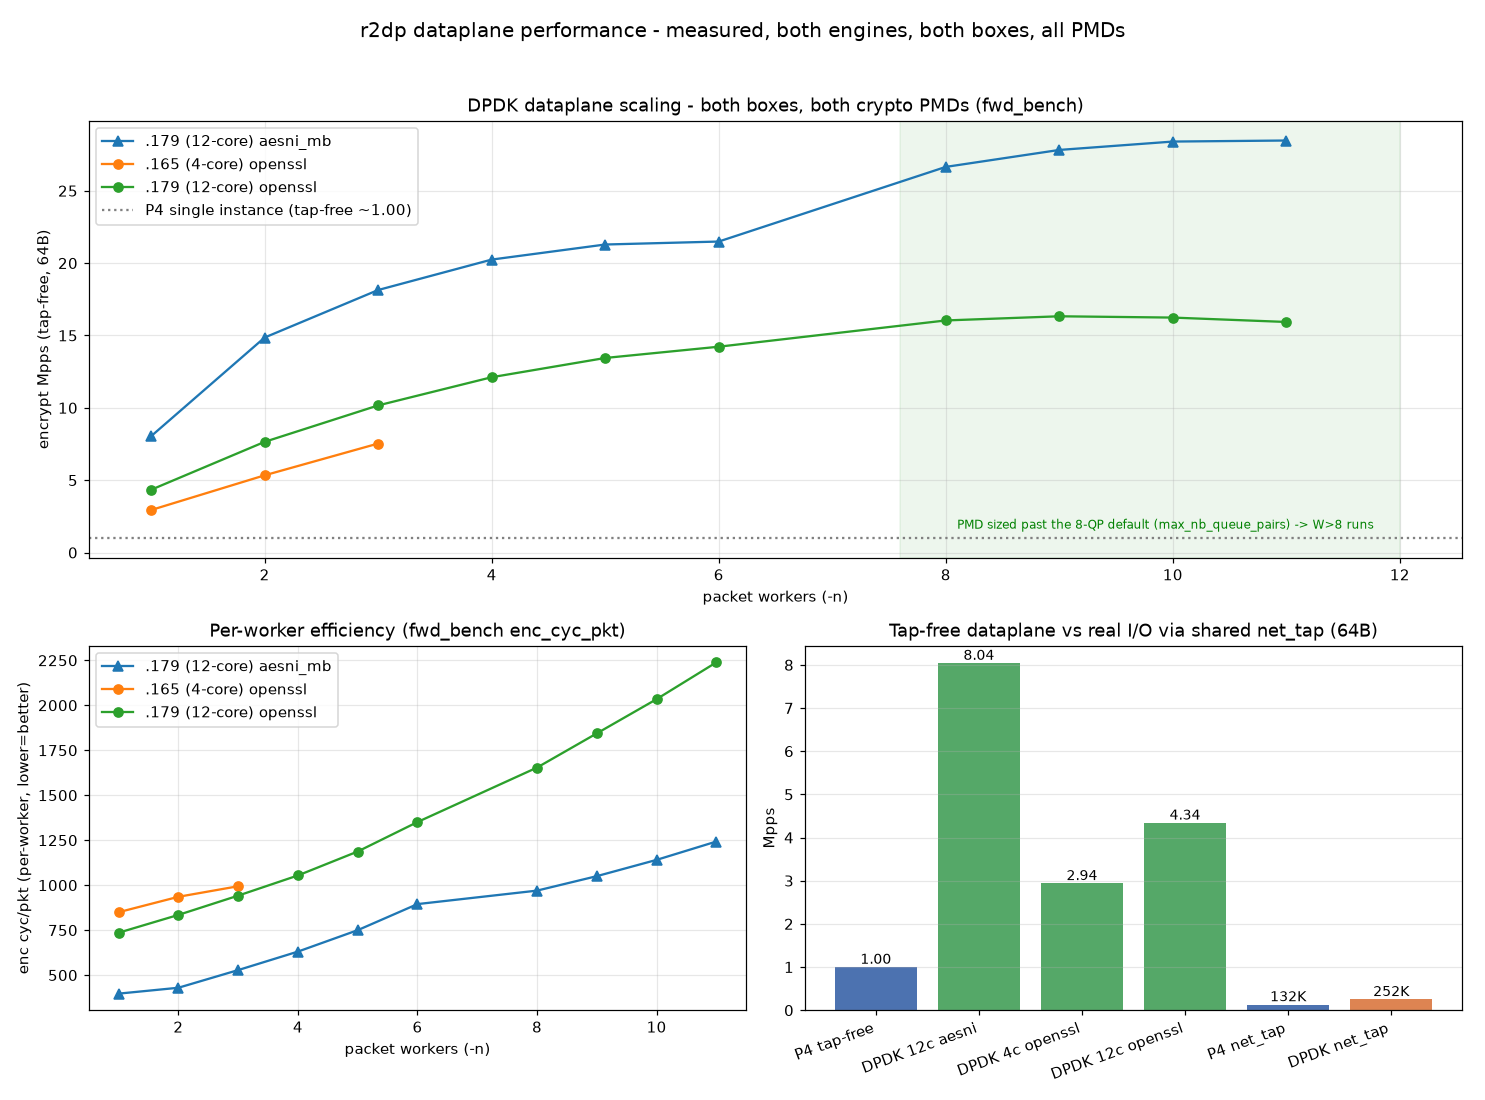
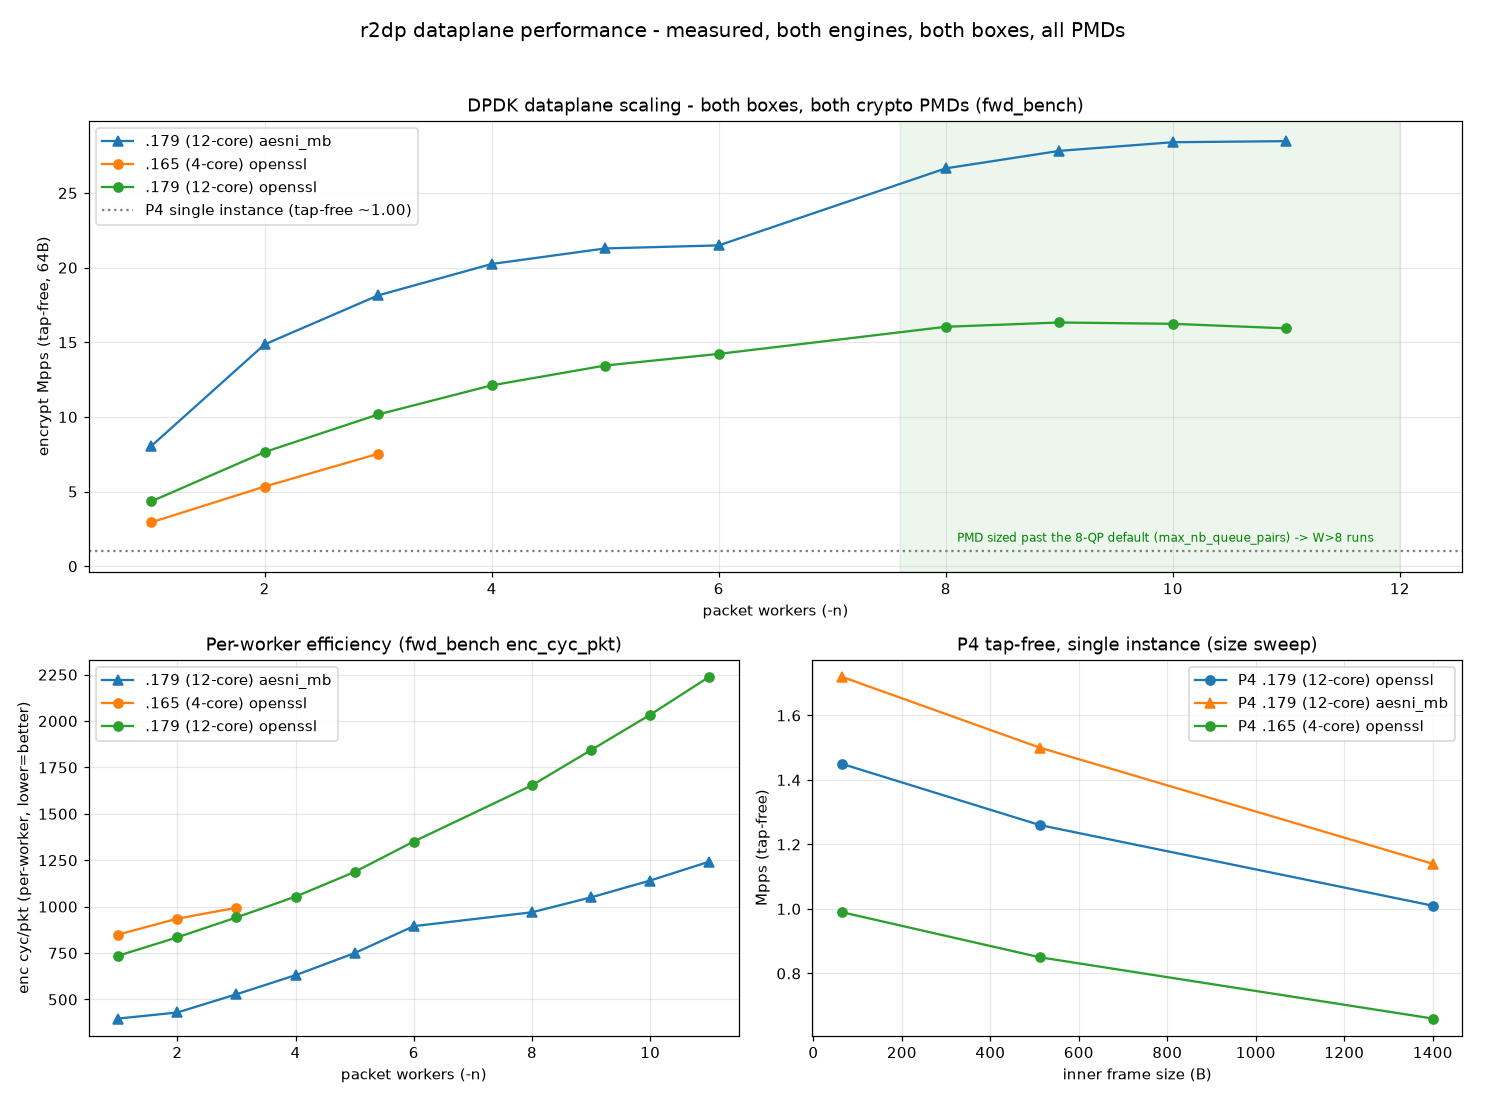
curves: add P4 tap-free size sweep to the figure
charts.py bottom-right now plots Mpps vs inner frame size for the P4
tap-free (R2DP_P4_BENCH) sweep, per box and crypto PMD, instead of the
bare tap-free/tap bars. P4 is one SWX pipeline (single instance), so the
honest P4 figure is the size sweep, not a core sweep.

committed measured points (2026-11-07, tap-free):
  .179 12-core: openssl 1.45/1.26/1.01 Mpps, aesni 1.72/1.50/1.14 Mpps
                @ 64/512/1400 B (aesni only on .179; ~1.15-1.2x)
  .165 4-core:  openssl 0.99/0.85/0.66 Mpps @ 64/512/1400 B

diff --git a/bench/curves.py b/bench/curves.py
@@ -24,7 +24,7 @@ Data schema (curves_data.json):
              "enc": {worker: mpps, ...}, "dec": {...},
              "enc_cyc": {worker: cyc/pkt}, "dec_cyc": {...}}, ... ],
   "p4":   {"tapless_mpps": 1.00, "tap_mpps": 0.132, "dpdk_tap_mpps": 0.252,
-           "note": "..."},
+           "sweep": {box: {pmd: {size: (mpps, cyc)}}}, "note": "..."},
 }
 """
 import argparse, json, os, subprocess, sys
@@ -195,27 +195,43 @@ def plot(data, out):
     ax.grid(True, alpha=0.3)
     ax.legend()
 
-    # (c) tap-free vs real-I/O: BOTH engines tap-free AND tap
+    # (c) P4 tap-free sweep: Mpps vs packet size, per box/PMD (single instance)
     ax = fig.add_subplot(gs[1, 1])
-    # representative DPDK tap-free points: W=1 openssl .165, W=1 aesni .179
-    dpdk_tapfree = {}
-    for s in dpdk:
-        if "1" in s["enc"]:
-            pm = "aesni" if s["pmd"] == "aesni_mb" else s["pmd"]
-            box = "12c" if "179" in s["box"] else "4c"
-            dpdk_tapfree[f"DPDK {box} {pm}"] = s["enc"]["1"]
-    labels = ["P4 tap-free"] + list(dpdk_tapfree) + ["P4 net_tap", "DPDK net_tap"]
-    vals = [p4_tapfree] + list(dpdk_tapfree.values()) + [p4_tap, dpdk_tap]
-    colors = (["#4C72B0"] + ["#55A868"]*len(dpdk_tapfree) + ["#4C72B0", "#DD8452"])
-    ax.bar(labels, vals, color=colors)
-    for i, v in enumerate(vals):
-        # honest label: axis is Mpps, so a 1.00 value is "1.00", NOT "1000K"
-        ax.text(i, v, f"{v:.2f}" if v >= 1 else f"{v*1e3:.0f}K",
-                ha="center", va="bottom", fontsize=9)
-    ax.set_ylabel("Mpps")
-    ax.set_title("Tap-free dataplane vs real I/O via shared net_tap (64B)")
-    ax.grid(True, axis="y", alpha=0.3)
-    plt.setp(ax.get_xticklabels(), rotation=20, ha="right")
+    p4sweep = p4.get("sweep", {})
+    if p4sweep:
+        styles4 = {"openssl": "o-", "aesni_mb": "^-"}
+        for box, pms in p4sweep.items():
+            for pmd, sizes in pms.items():
+                xs = sorted(int(k) for k in sizes)
+                ys = [sizes[str(x)][0] for x in xs]   # Mpps
+                ax.plot(xs, ys, styles4.get(pmd, "o-"), ms=6,
+                        label=f"P4 {box} {pmd}")
+        ax.set_xlabel("inner frame size (B)")
+        ax.set_ylabel("Mpps (tap-free)")
+        ax.set_title("P4 tap-free, single instance (size sweep)")
+        ax.ticklabel_format(axis="x", style="plain")
+    else:
+        # fall back to the tap-free-vs-tap bar wall
+        dpdk_tapfree = {}
+        for s in dpdk:
+            if "1" in s["enc"]:
+                pm = "aesni" if s["pmd"] == "aesni_mb" else s["pmd"]
+                box = "12c" if "179" in s["box"] else "4c"
+                dpdk_tapfree[f"DPDK {box} {pm}"] = s["enc"]["1"]
+        labels = (["P4 tap-free"] + list(dpdk_tapfree) +
+                  ["P4 net_tap", "DPDK net_tap"])
+        vals = [p4_tapfree] + list(dpdk_tapfree.values()) + [p4_tap, dpdk_tap]
+        colors = (["#4C72B0"] + ["#55A868"]*len(dpdk_tapfree) +
+                  ["#4C72B0", "#DD8452"])
+        ax.bar(labels, vals, color=colors)
+        for i, v in enumerate(vals):
+            ax.text(i, v, f"{v:.2f}" if v >= 1 else f"{v*1e3:.0f}K",
+                    ha="center", va="bottom", fontsize=9)
+        ax.set_ylabel("Mpps")
+        ax.set_title("Tap-free dataplane vs real I/O via shared net_tap (64B)")
+        plt.setp(ax.get_xticklabels(), rotation=20, ha="right")
+    ax.grid(True, alpha=0.3)
+    ax.legend()
 
     fig.suptitle("r2dp dataplane performance - measured, both engines, both boxes, all PMDs",
                  fontsize=13)
